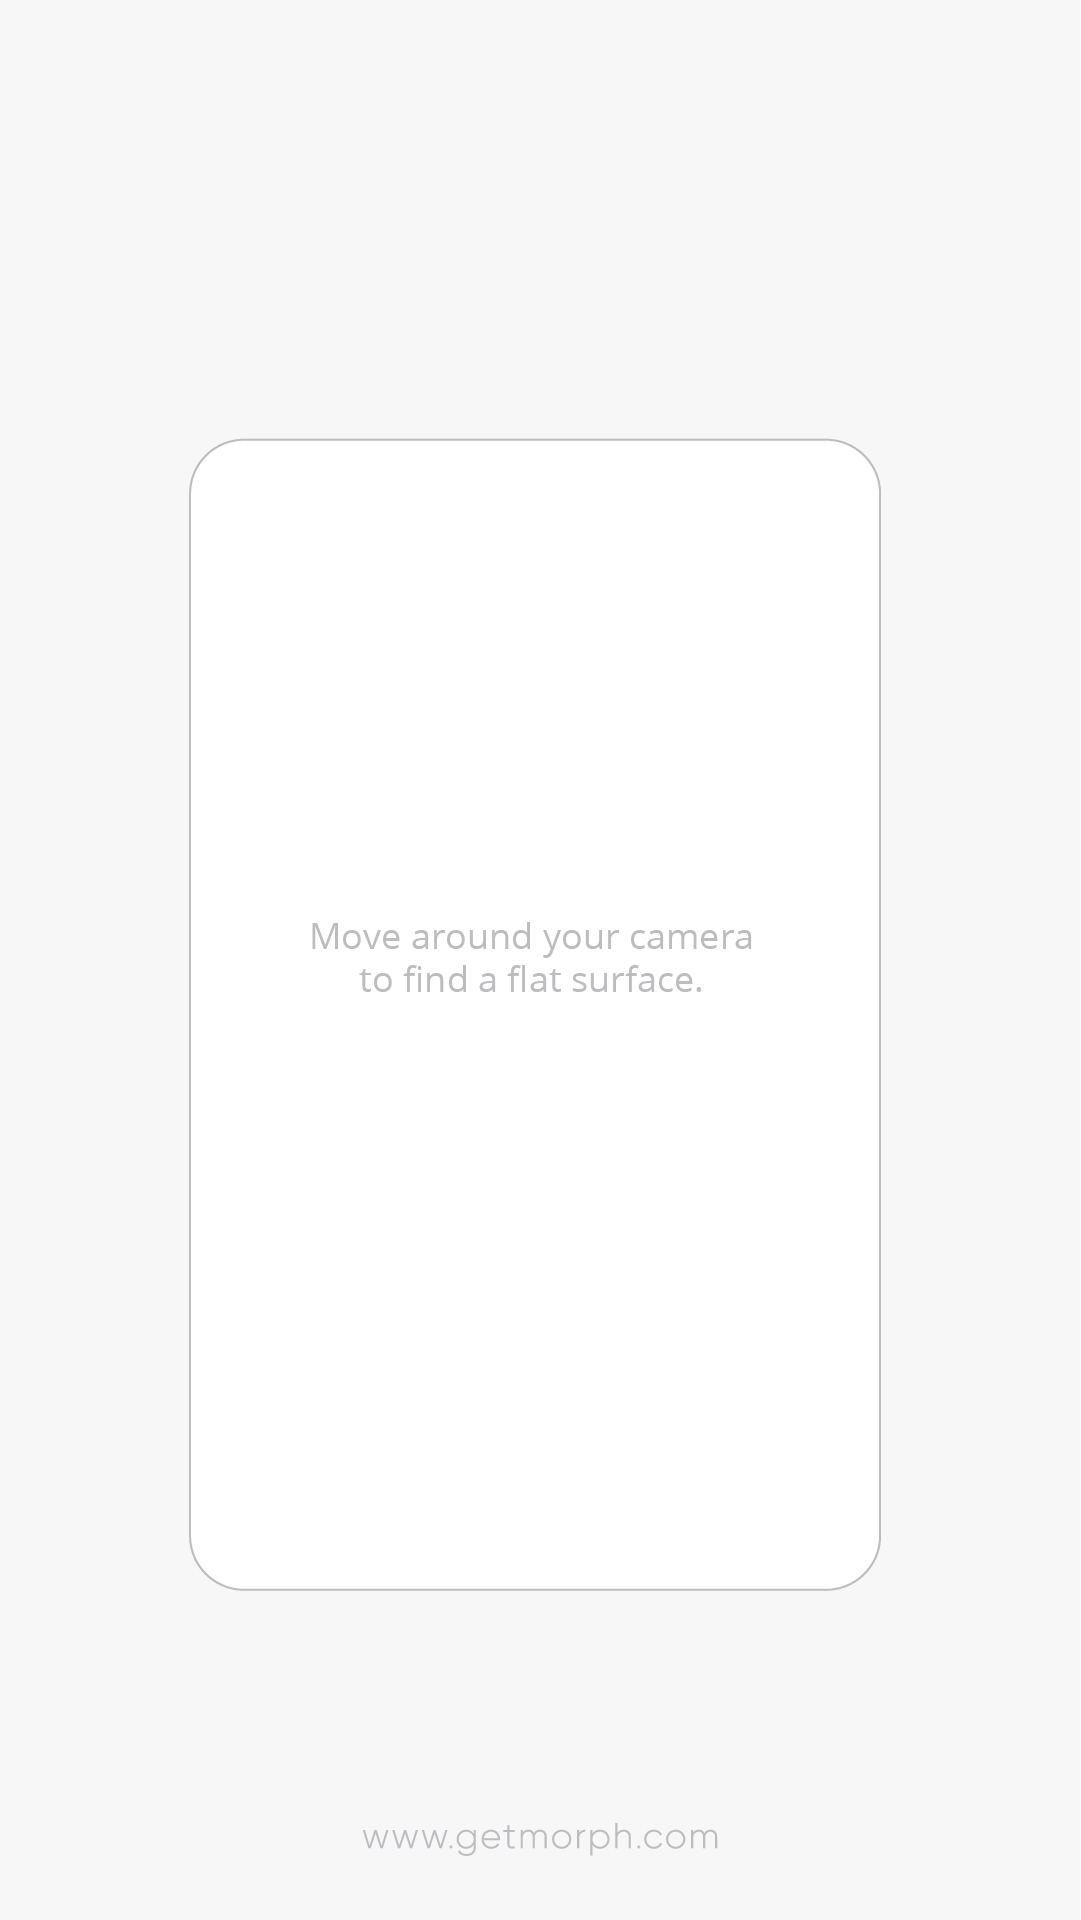
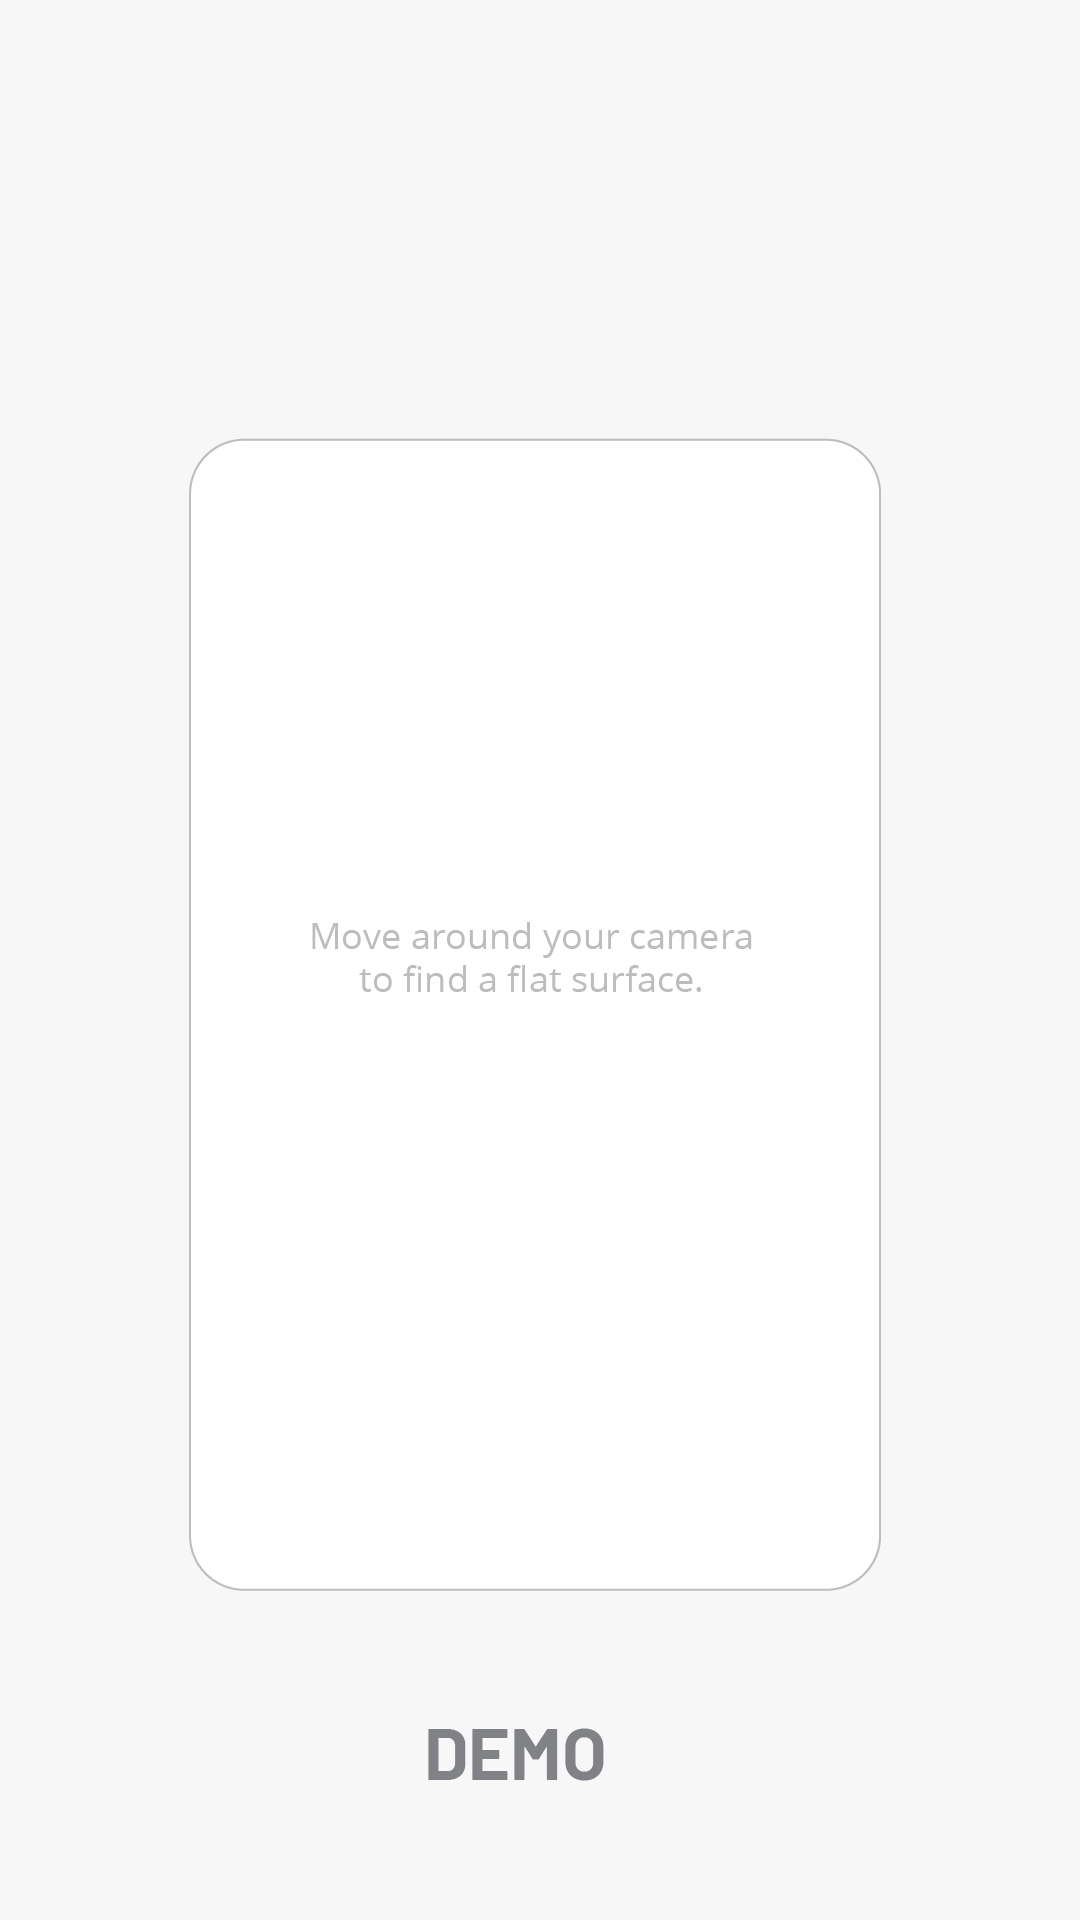
new assets

Changed region(s): [[0.3972, 0.875, 0.5806, 0.9688]]

diff --git a/index.html b/index.html
@@ -56,8 +56,8 @@
     <div class="ui">
       <div class="splash">
         
-        <img class="header" src="./images/header.png" alt="">
         <img class="bg" src="./images/bg.png" alt="splash">
+        <img class="header" src="./images/header.png" alt="">
       </div>
     </div>
     <img class="addJelly" src="./images/button.png" alt="button" style="display:none"> 

diff --git a/css/style.css b/css/style.css
@@ -14,7 +14,10 @@
     height: 100%;
 }
 .ui .splash .header{
-    width: 100%;  
+    position: absolute;
+    top: 0%;
+    left: 0%;
+    width: 100%; 
 }
 
 .addJelly {
